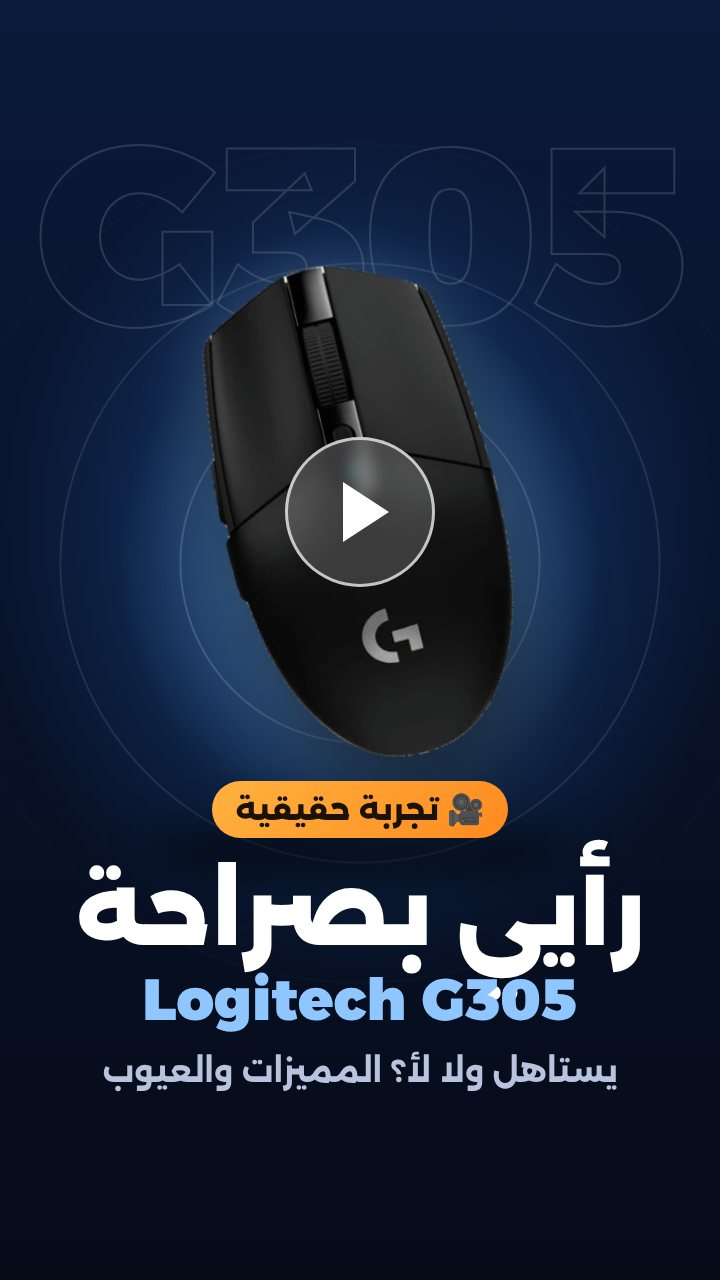
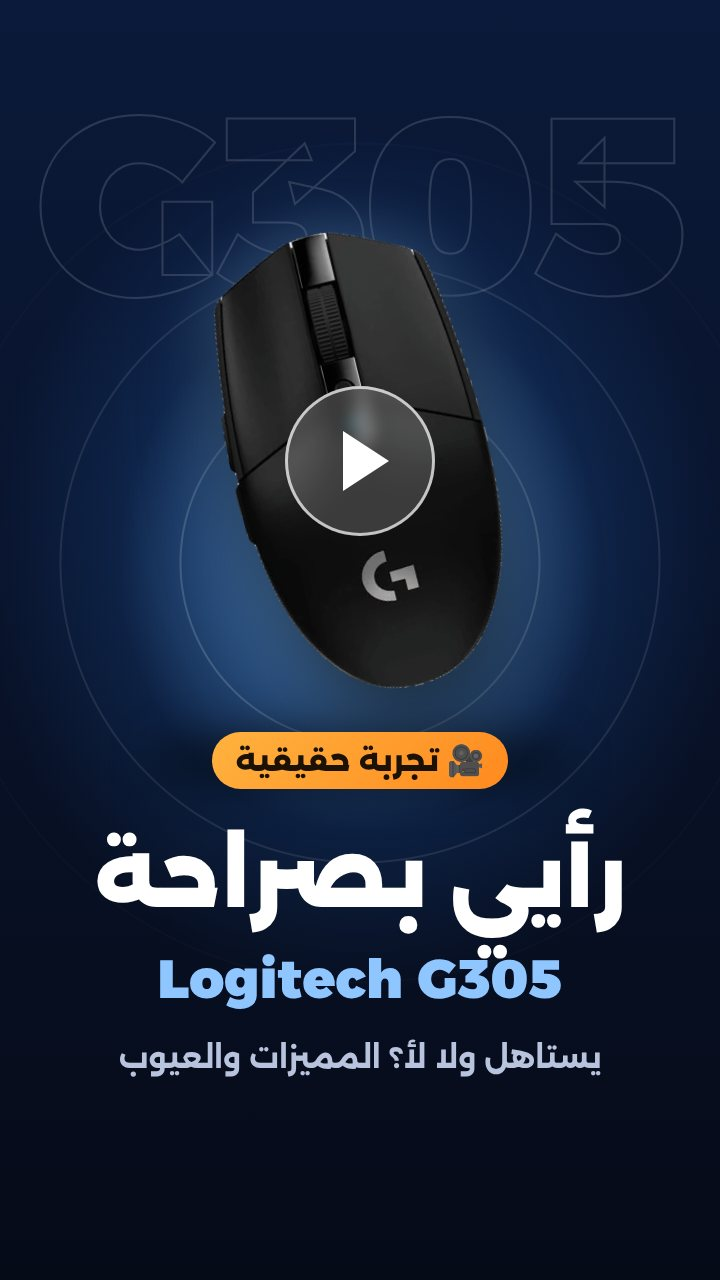
Review video: roomier cover text, player controls only after play
The cover's headline lines were crowding each other and the browser's
player bar sat over them. The cover is re-laid out with more spacing,
the video box keeps its 9:16 shape on desktop, and a full-cover play
button starts the video and only then shows the controls.
sw v141, styles v96.

Claude-Session: https://claude.ai/code/session_01FgqBvfcW34AtYe7xydj2je

diff --git a/styles.css b/styles.css
@@ -2321,7 +2321,9 @@ main:focus { outline: none; }
 /* ============ «رأيي بصراحة» في صفحة المنتج ============ */
 .pd-review { display: grid; grid-template-columns: minmax(220px, 320px) 1fr; gap: 24px; align-items: center; margin: 8px 0 26px; padding: 18px;
   border-radius: var(--radius); background: var(--surface); border: 1px solid var(--border); }
-.pd-review__video { position: relative; aspect-ratio: 9 / 16; max-height: 520px; border-radius: 14px; overflow: hidden; background: #000; }
+.pd-review__video { position: relative; aspect-ratio: 9 / 16; width: min(100%, 292px); justify-self: center; border-radius: 14px; overflow: hidden; background: #000; }
+.pd-review__play { position: absolute; inset: 0; z-index: 1; cursor: pointer; background: transparent; border: 0; }
+.pd-review__play:focus-visible { outline: 3px solid var(--primary); outline-offset: -3px; border-radius: 14px; }
 .pd-review__video video { width: 100%; height: 100%; object-fit: cover; display: block; }
 .pd-review__badge { position: absolute; top: 10px; inset-inline-start: 10px; padding: 5px 12px; border-radius: 999px; font-weight: 800; font-size: .8rem;
   background: rgba(0,0,0,.6); color: #fff; backdrop-filter: blur(6px); pointer-events: none; }

diff --git a/product.js b/product.js
@@ -43,7 +43,8 @@ function reviewVideoHtml(p) {
     <div class="container">
       <section class="pd-review" aria-labelledby="pdReviewTitle">
         <div class="pd-review__video">
-          <video controls playsinline preload="none" poster="${v.poster}" src="${v.src}"></video>
+          <video playsinline preload="none" poster="${v.poster}" src="${v.src}"></video>
+          <button type="button" class="pd-review__play" id="pdReviewPlay" aria-label="شغّل فيديو رأيي بصراحة"></button>
           <span class="pd-review__badge">جربناه بنفسنا 🎥</span>
         </div>
         <div class="pd-review__txt">
@@ -345,6 +346,13 @@ function bindDetail(p) {
 
   const add = () => addToCart(p.id, qty, selectedOptions());
   $("#addMain").addEventListener("click", add);
+  $("#pdReviewPlay")?.addEventListener("click", (e) => {
+    const video = e.currentTarget.previousElementSibling;
+    e.currentTarget.remove();
+    video.controls = true;
+    video.play().catch(() => {});
+  });
+
   const buy = () => { add(); openCart(true); };
   $("#addBar").addEventListener("click", buy);
   $("#buyNow").addEventListener("click", buy);

diff --git a/i18n.js b/i18n.js
@@ -715,7 +715,8 @@ const I18N_EN = {
 "شوف المنتج ده في إيدينا قبل ما تطلبه": "See it in our hands before you order",
 "فيديو قصير صوّرناه بنفسنا: المميزات والعيوب من غير تجميل.": "A short video we shot ourselves: the pros and cons, no sugarcoating.",
 "فيديوهات أكتر على تيك توك ←": "More videos on TikTok →",
-"🔔 نبّهني أول ما يرجع": "🔔 Notify me when it's back"
+"🔔 نبّهني أول ما يرجع": "🔔 Notify me when it's back",
+"شغّل فيديو رأيي بصراحة": "Play the honest review video"
 };
 const I18N_PATTERNS = [
 // ---- أنماط لوحة التحكم (تلميحات فيها أرقام) ----

diff --git a/sw.js b/sw.js
@@ -1,7 +1,7 @@
 // ============ Service Worker: بيخلّي المتجر يتسطب كتطبيق ويفتح من غير نت ============
 // الصفحات والملفات: من النت الأول (عشان التحديثات توصل على طول)، ولو مفيش نت من النسخة المحفوظة.
 // الصور: من المحفوظ الأول عشان السرعة.
-const VERSION = "gtech-v140";
+const VERSION = "gtech-v141";
 const CORE = [
   "./", "index.html", "policies.html", "product.html", "wishlist.html", "checkout.html", "compare.html", "myorders.html",
   "styles.css", "i18n.js", "data.js", "firebase-config.js", "analytics.js", "core.js", "catalog.js", "common.js", "visits.js",

diff --git a/checkout.html b/checkout.html
@@ -20,7 +20,7 @@
   <meta name="mobile-web-app-capable" content="yes" />
   <meta name="apple-mobile-web-app-title" content="GTECH MASR" />
   <meta name="apple-mobile-web-app-status-bar-style" content="black" />
-  <link rel="stylesheet" href="styles.css?v=95" />
+  <link rel="stylesheet" href="styles.css?v=96" />
   <link rel="icon" href="favicon.ico" sizes="48x48" />
   <link rel="icon" type="image/png" sizes="192x192" href="icons/icon-192.png" />
 </head>

diff --git a/compare.html b/compare.html
@@ -20,7 +20,7 @@
   <meta name="mobile-web-app-capable" content="yes" />
   <meta name="apple-mobile-web-app-title" content="GTECH MASR" />
   <meta name="apple-mobile-web-app-status-bar-style" content="black" />
-  <link rel="stylesheet" href="styles.css?v=95" />
+  <link rel="stylesheet" href="styles.css?v=96" />
   <link rel="icon" href="favicon.ico" sizes="48x48" />
   <link rel="icon" type="image/png" sizes="192x192" href="icons/icon-192.png" />
 </head>

diff --git a/index.html b/index.html
@@ -35,7 +35,7 @@
   <meta name="mobile-web-app-capable" content="yes" />
   <meta name="apple-mobile-web-app-title" content="GTECH MASR" />
   <meta name="apple-mobile-web-app-status-bar-style" content="black" />
-  <link rel="stylesheet" href="styles.css?v=95" />
+  <link rel="stylesheet" href="styles.css?v=96" />
   <link rel="icon" href="favicon.ico" sizes="48x48" />
   <link rel="icon" type="image/png" sizes="192x192" href="icons/icon-192.png" />
 </head>

diff --git a/myorders.html b/myorders.html
@@ -20,7 +20,7 @@
   <meta name="mobile-web-app-capable" content="yes" />
   <meta name="apple-mobile-web-app-title" content="GTECH MASR" />
   <meta name="apple-mobile-web-app-status-bar-style" content="black" />
-  <link rel="stylesheet" href="styles.css?v=95" />
+  <link rel="stylesheet" href="styles.css?v=96" />
   <link rel="icon" href="favicon.ico" sizes="48x48" />
   <link rel="icon" type="image/png" sizes="192x192" href="icons/icon-192.png" />
 </head>

diff --git a/policies.html b/policies.html
@@ -20,7 +20,7 @@
   <meta name="mobile-web-app-capable" content="yes" />
   <meta name="apple-mobile-web-app-title" content="GTECH MASR" />
   <meta name="apple-mobile-web-app-status-bar-style" content="black" />
-  <link rel="stylesheet" href="styles.css?v=95" />
+  <link rel="stylesheet" href="styles.css?v=96" />
   <link rel="icon" href="favicon.ico" sizes="48x48" />
   <link rel="icon" type="image/png" sizes="192x192" href="icons/icon-192.png" />
 </head>

diff --git a/product.html b/product.html
@@ -20,7 +20,7 @@
   <meta name="mobile-web-app-capable" content="yes" />
   <meta name="apple-mobile-web-app-title" content="GTECH MASR" />
   <meta name="apple-mobile-web-app-status-bar-style" content="black" />
-  <link rel="stylesheet" href="styles.css?v=95" />
+  <link rel="stylesheet" href="styles.css?v=96" />
   <link rel="icon" href="favicon.ico" sizes="48x48" />
   <link rel="icon" type="image/png" sizes="192x192" href="icons/icon-192.png" />
 </head>

diff --git a/setup.html b/setup.html
@@ -20,7 +20,7 @@
   <meta name="mobile-web-app-capable" content="yes" />
   <meta name="apple-mobile-web-app-title" content="GTECH MASR" />
   <meta name="apple-mobile-web-app-status-bar-style" content="black" />
-  <link rel="stylesheet" href="styles.css?v=95" />
+  <link rel="stylesheet" href="styles.css?v=96" />
   <link rel="icon" href="favicon.ico" sizes="48x48" />
   <link rel="icon" type="image/png" sizes="192x192" href="icons/icon-192.png" />
 </head>

diff --git a/wishlist.html b/wishlist.html
@@ -20,7 +20,7 @@
   <meta name="mobile-web-app-capable" content="yes" />
   <meta name="apple-mobile-web-app-title" content="GTECH MASR" />
   <meta name="apple-mobile-web-app-status-bar-style" content="black" />
-  <link rel="stylesheet" href="styles.css?v=95" />
+  <link rel="stylesheet" href="styles.css?v=96" />
   <link rel="icon" href="favicon.ico" sizes="48x48" />
   <link rel="icon" type="image/png" sizes="192x192" href="icons/icon-192.png" />
 </head>
